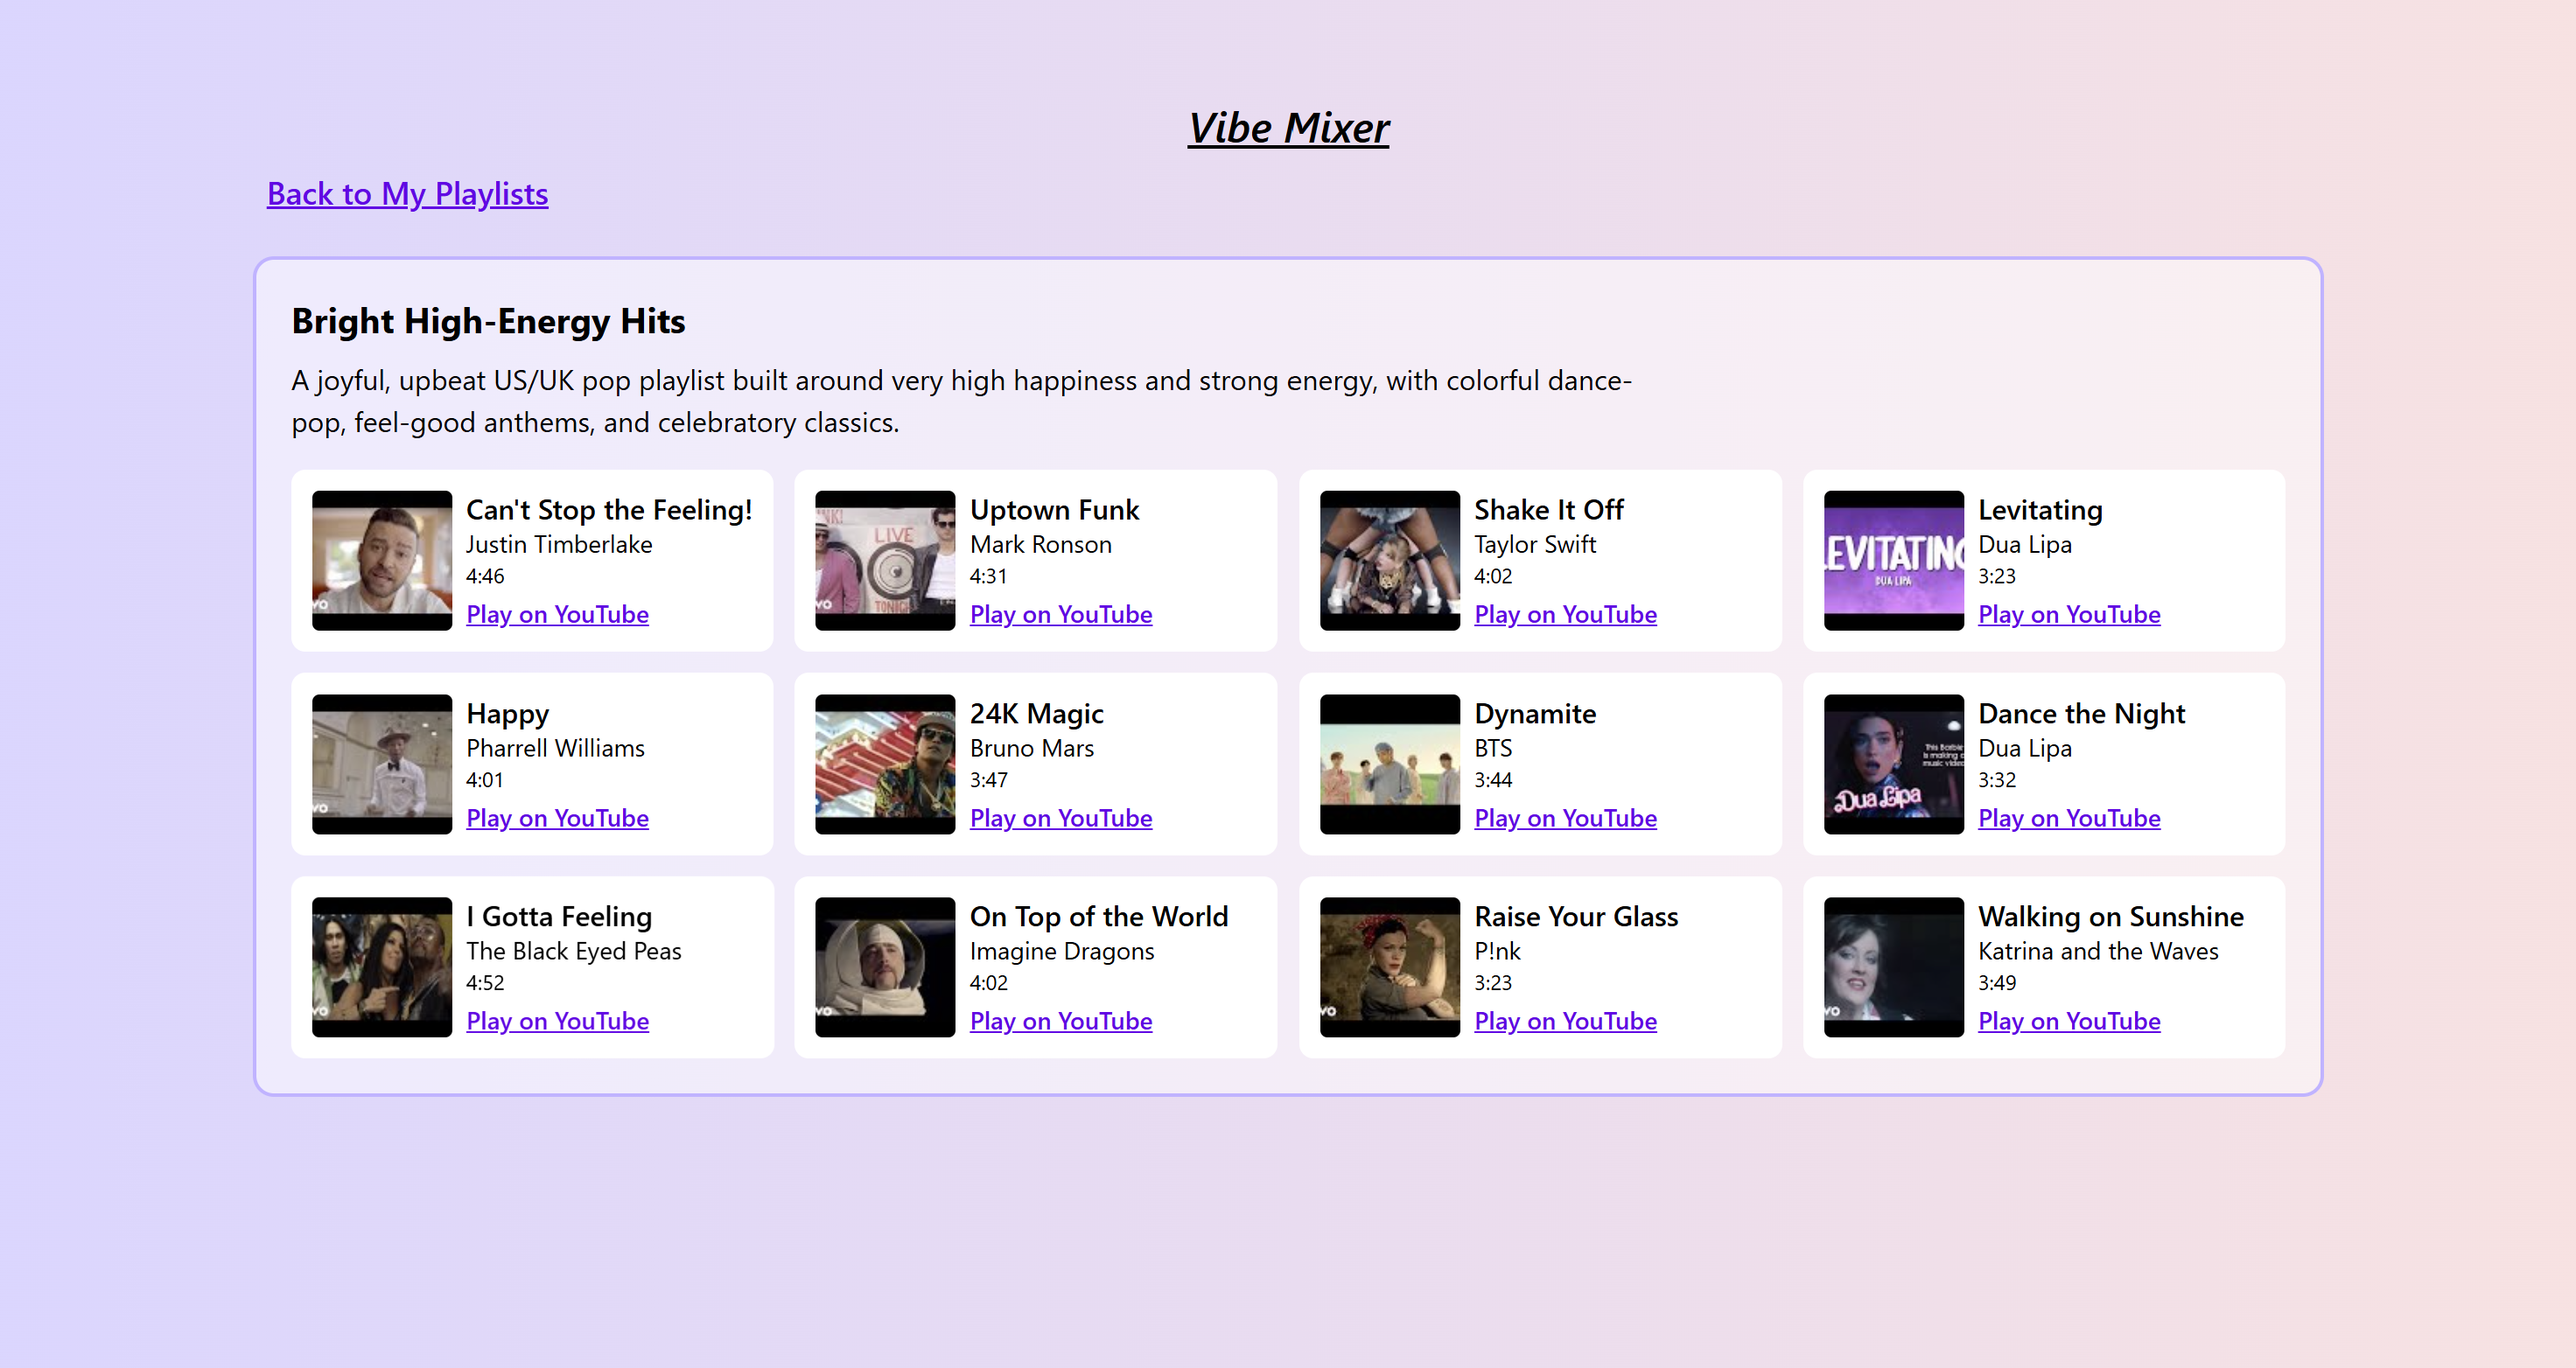
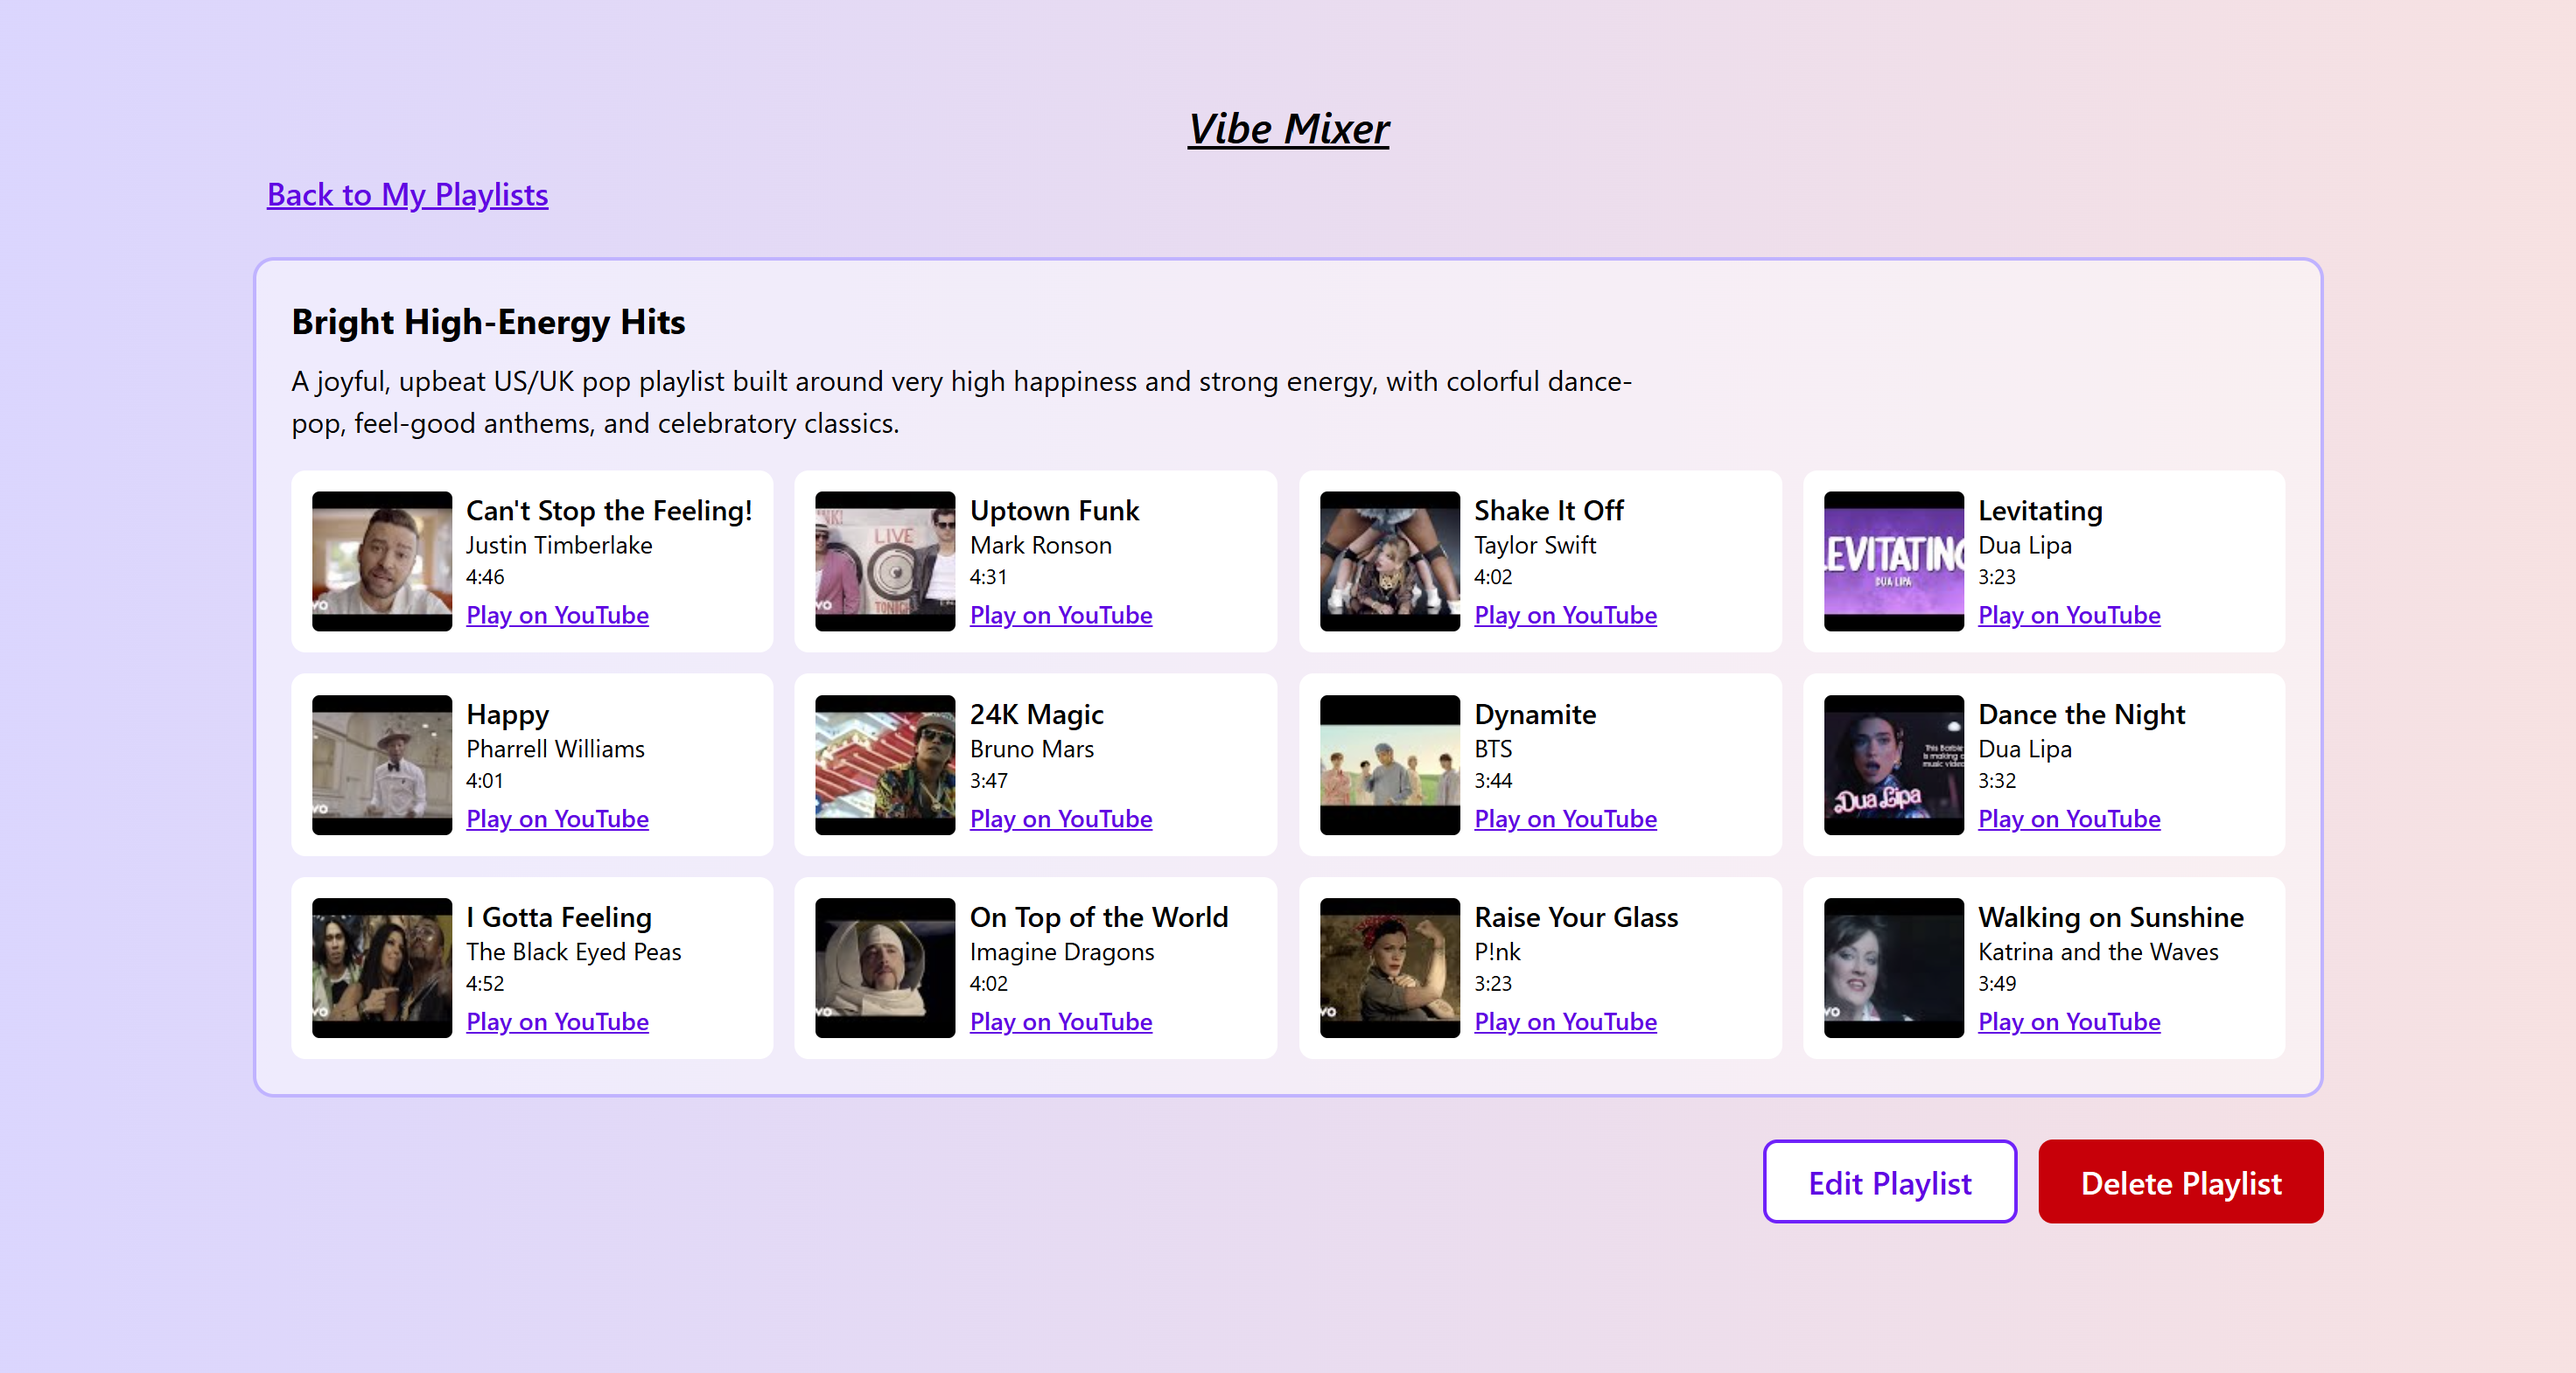
Updated README file

diff --git a/README.md b/README.md
@@ -16,6 +16,8 @@ In Development
 - Update profile information
 - Save generated playlists
 - View previously saved playlists
+- Search and Sort saved playlists
+- Update and Delete saved playlists
 - Responsive mobile, tablet, and desktop interface
 
 ## Screenshots
@@ -50,6 +52,8 @@ In Development
 
 ![Playlist details page](vm-frontend/src/assets/demo/PlaylistDetailsPage.png)
 
+### Play music video
+![Display music video](vm-frontend/src/assets/demo/EmbeddedVideo.png)
 
 ## Technology Stack
 
@@ -79,20 +83,12 @@ In Development
 ## Future Implementations
 
 ### Frontend
-- Add a playlist search and filtering feature
-- Add video embedding features to allow playing video without navigating to youtube
-- Allow users to edit playlist names and descriptions
-- Allow users to delete playlists
-- Add confirmation popup dialog when playlists are saved or deleted
-- Add loading and error popup dialog
 - Add motion and animation effects
 - Add protected routes for authenticated pages
 - Add a custom 404 page
 - Add password reset page
 
 ### Backend
-- Add endpoints for updating and deleting playlists
-- Add searching and filtering logic
 - Add password reset and email verification
 - Add pagination for saved playlists
 - Improve API error handling and validation
